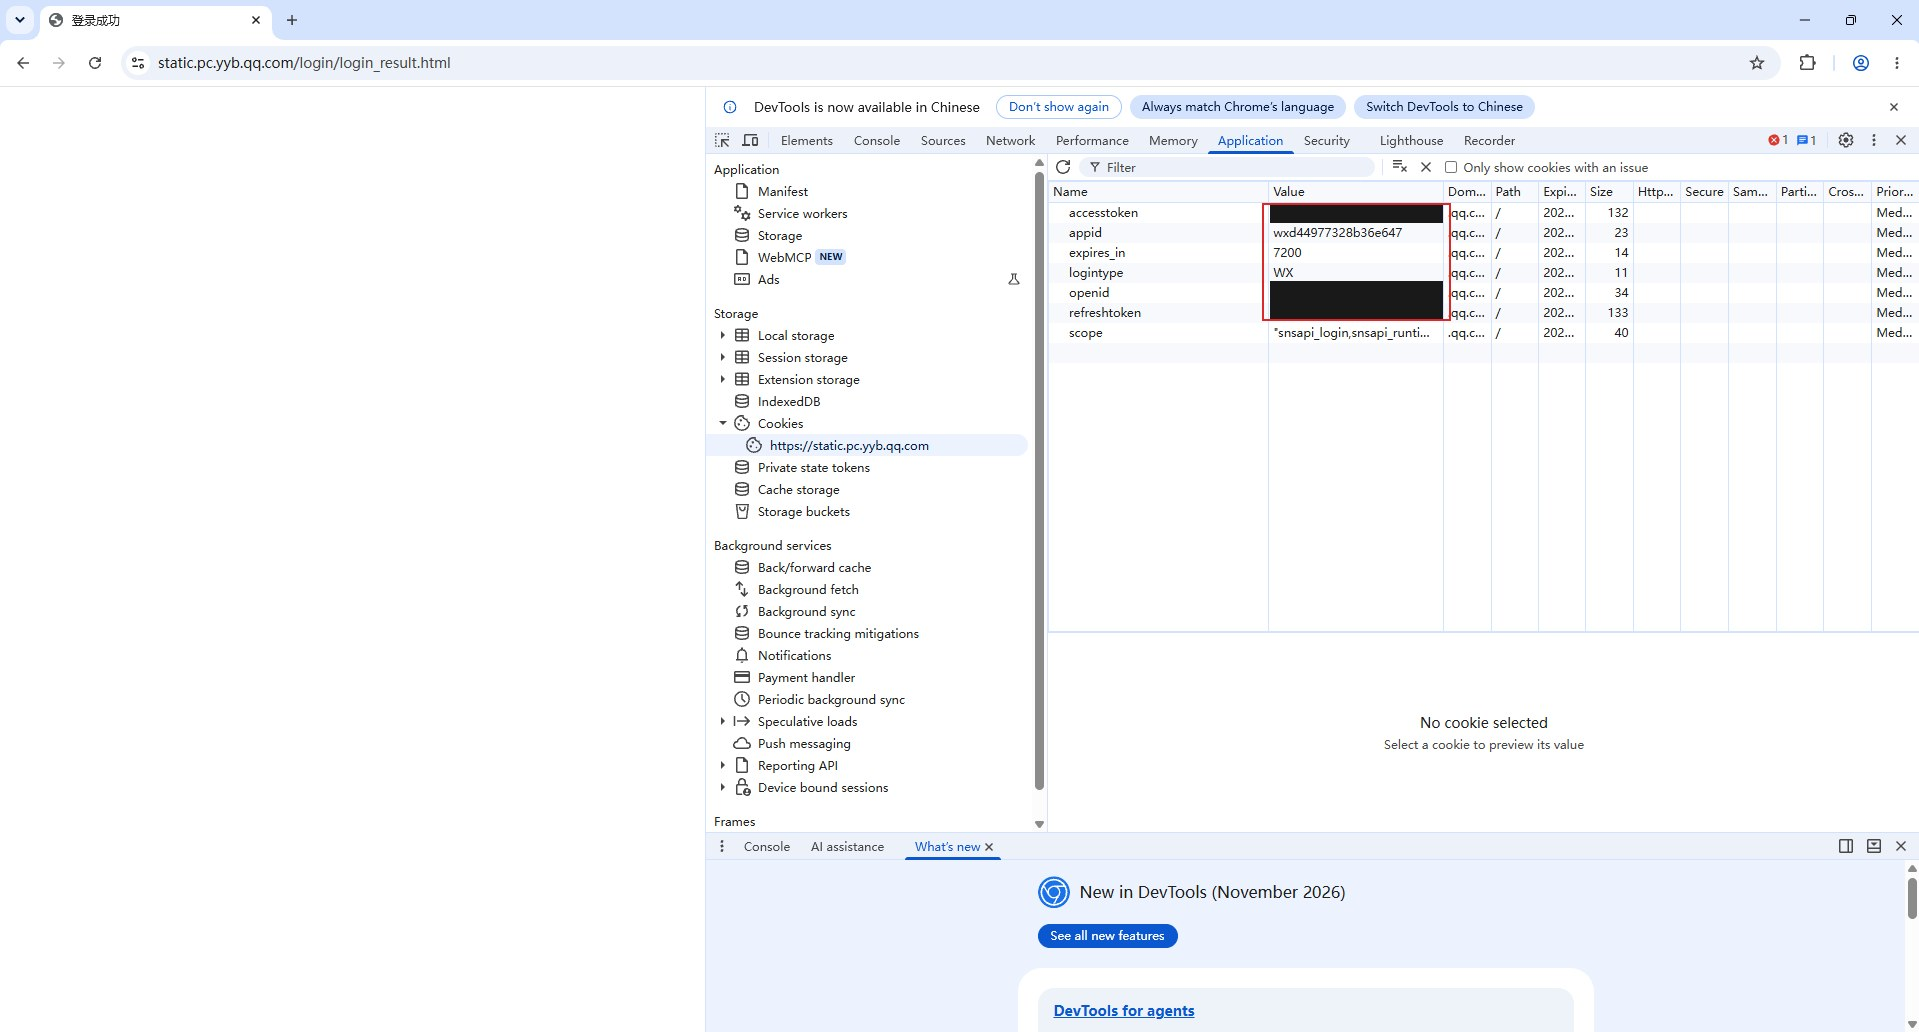
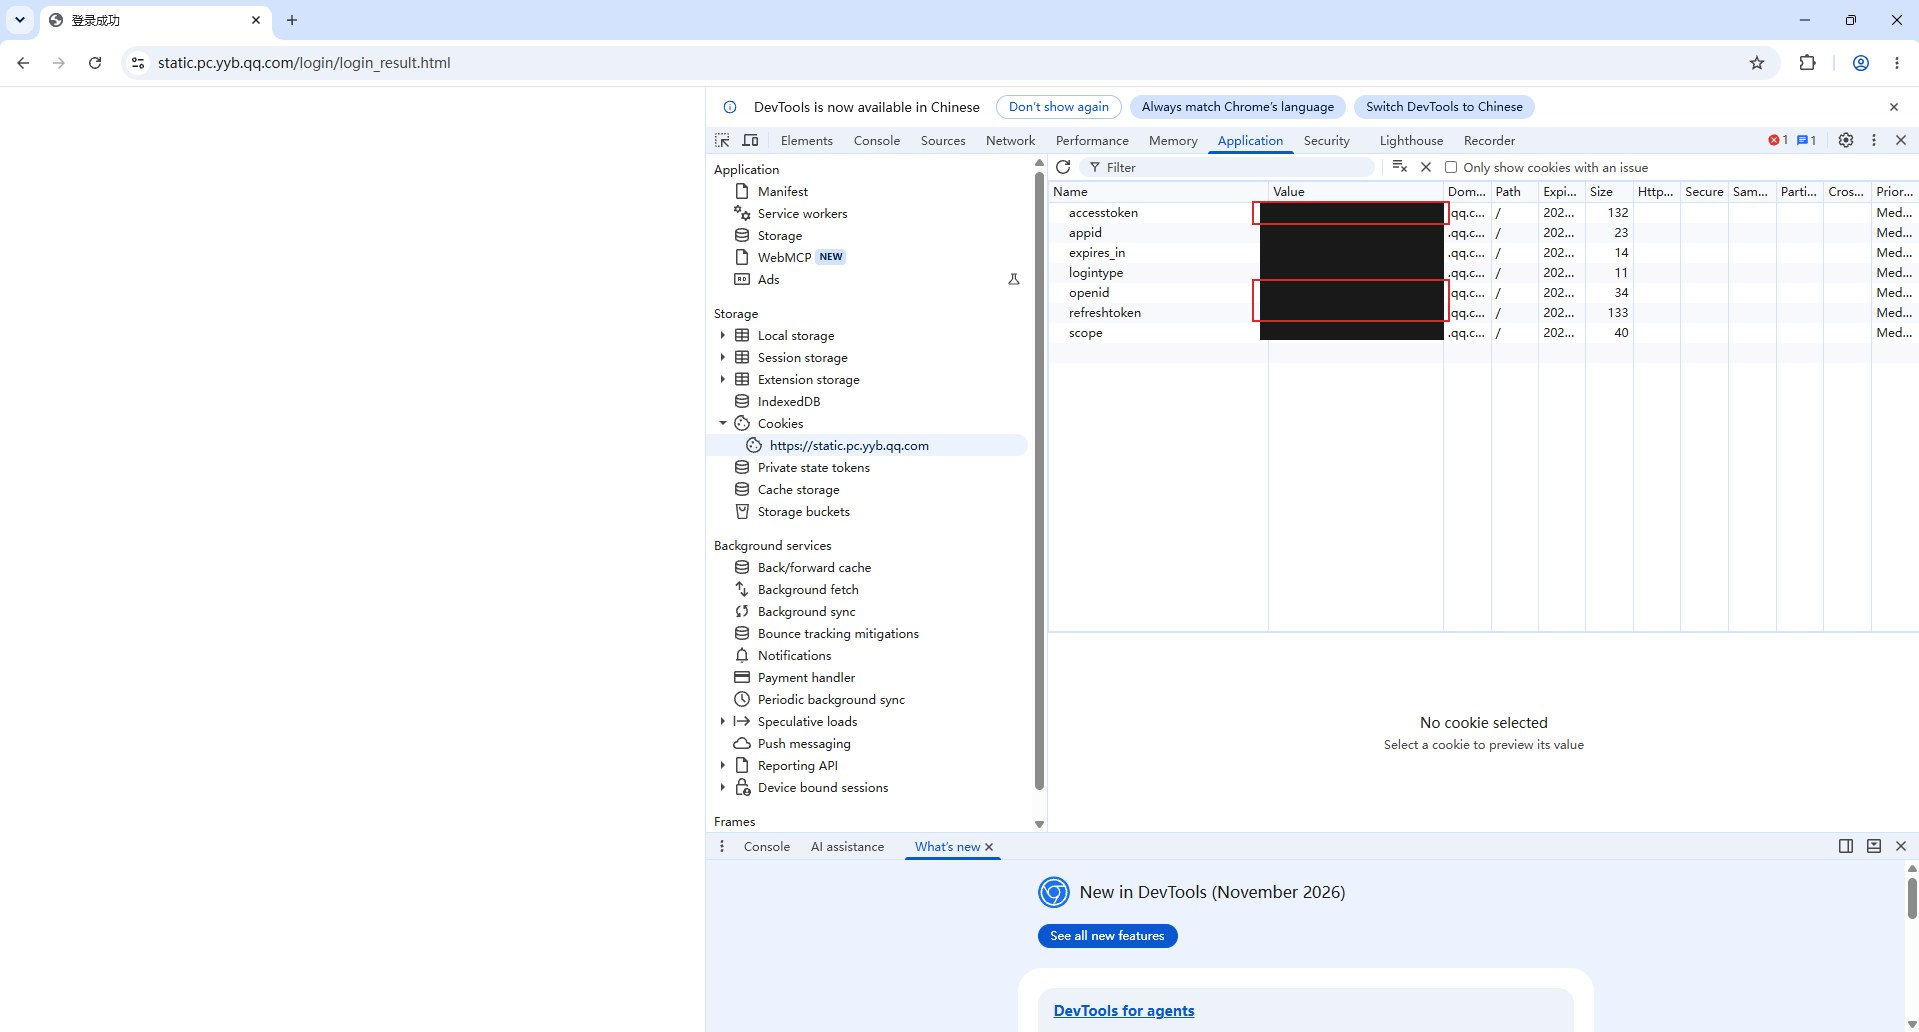
feat(docs): 第 4 步换成用户提供的指纹截图，所有 Value 打码
用户提供 idas.uestc.edu.cn 的 Cookie 面板截图。

打码要求：所有 Value 一律遮盖（不再保留 appid / expires_in 等参照值）。
- 第 4 步图：JSESSIONID / MULTIFACTOR_BROWSER_FINGERPRINT /
  springframework / route 四行 Value 全部黑块覆盖，红框只圈指纹行
- 第 1 步图：七行 Value 全部遮盖，红框圈 accesstoken / openid / refreshtoken

原图含真实指纹 46A2A933E3582438301C7EF534AFD...，已完全遮盖。
两张图均保留完整界面（地址栏 + 目录 + 表格），不裁剪。

Changed region(s): [[0.6456, 0.186, 0.7686, 0.3411]]

diff --git a/docs/index.html b/docs/index.html
@@ -256,9 +256,10 @@
       <img src="assets/fingerprint.jpg"
            alt="在 Chrome 开发者工具的 Application 面板中查看 MULTIFACTOR_BROWSER_FINGERPRINT">
       <figcaption>
-        上图：按 F12 → 顶部选「应用 / Application」→ 左侧「Cookie」→
+        上图：按 F12 → 顶部选「Application」→ 左侧「Cookie」→
         点开 <code>idas.uestc.edu.cn</code> → 在列表中找到
-        <code>MULTIFACTOR_BROWSER_FINGERPRINT</code>（红框处），右侧 Value 就是指纹。
+        <code>MULTIFACTOR_BROWSER_FINGERPRINT</code>（红框处），右侧 Value 就是指纹
+        （图中所有 Value 均已打码）。
         <br>双击右侧 Value 即可全选复制。
       </figcaption>
     </figure>
